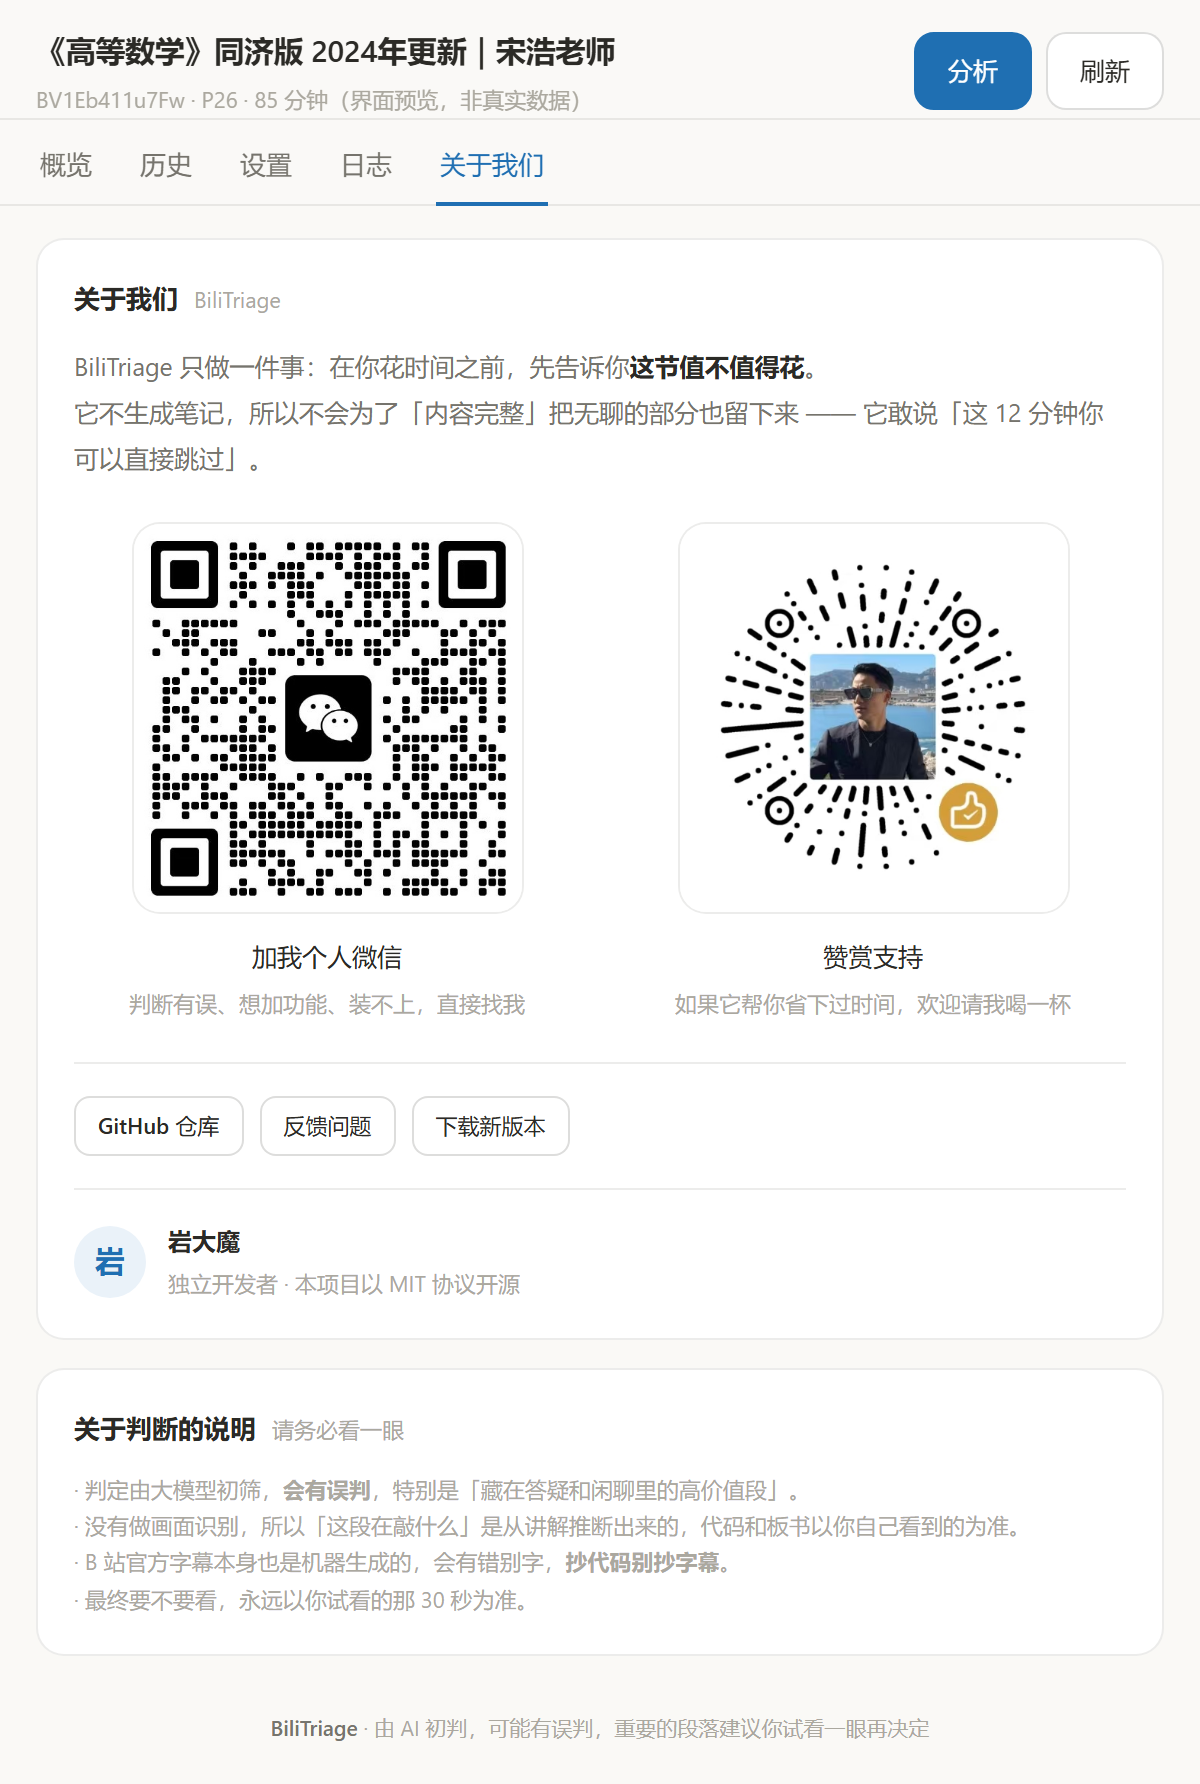
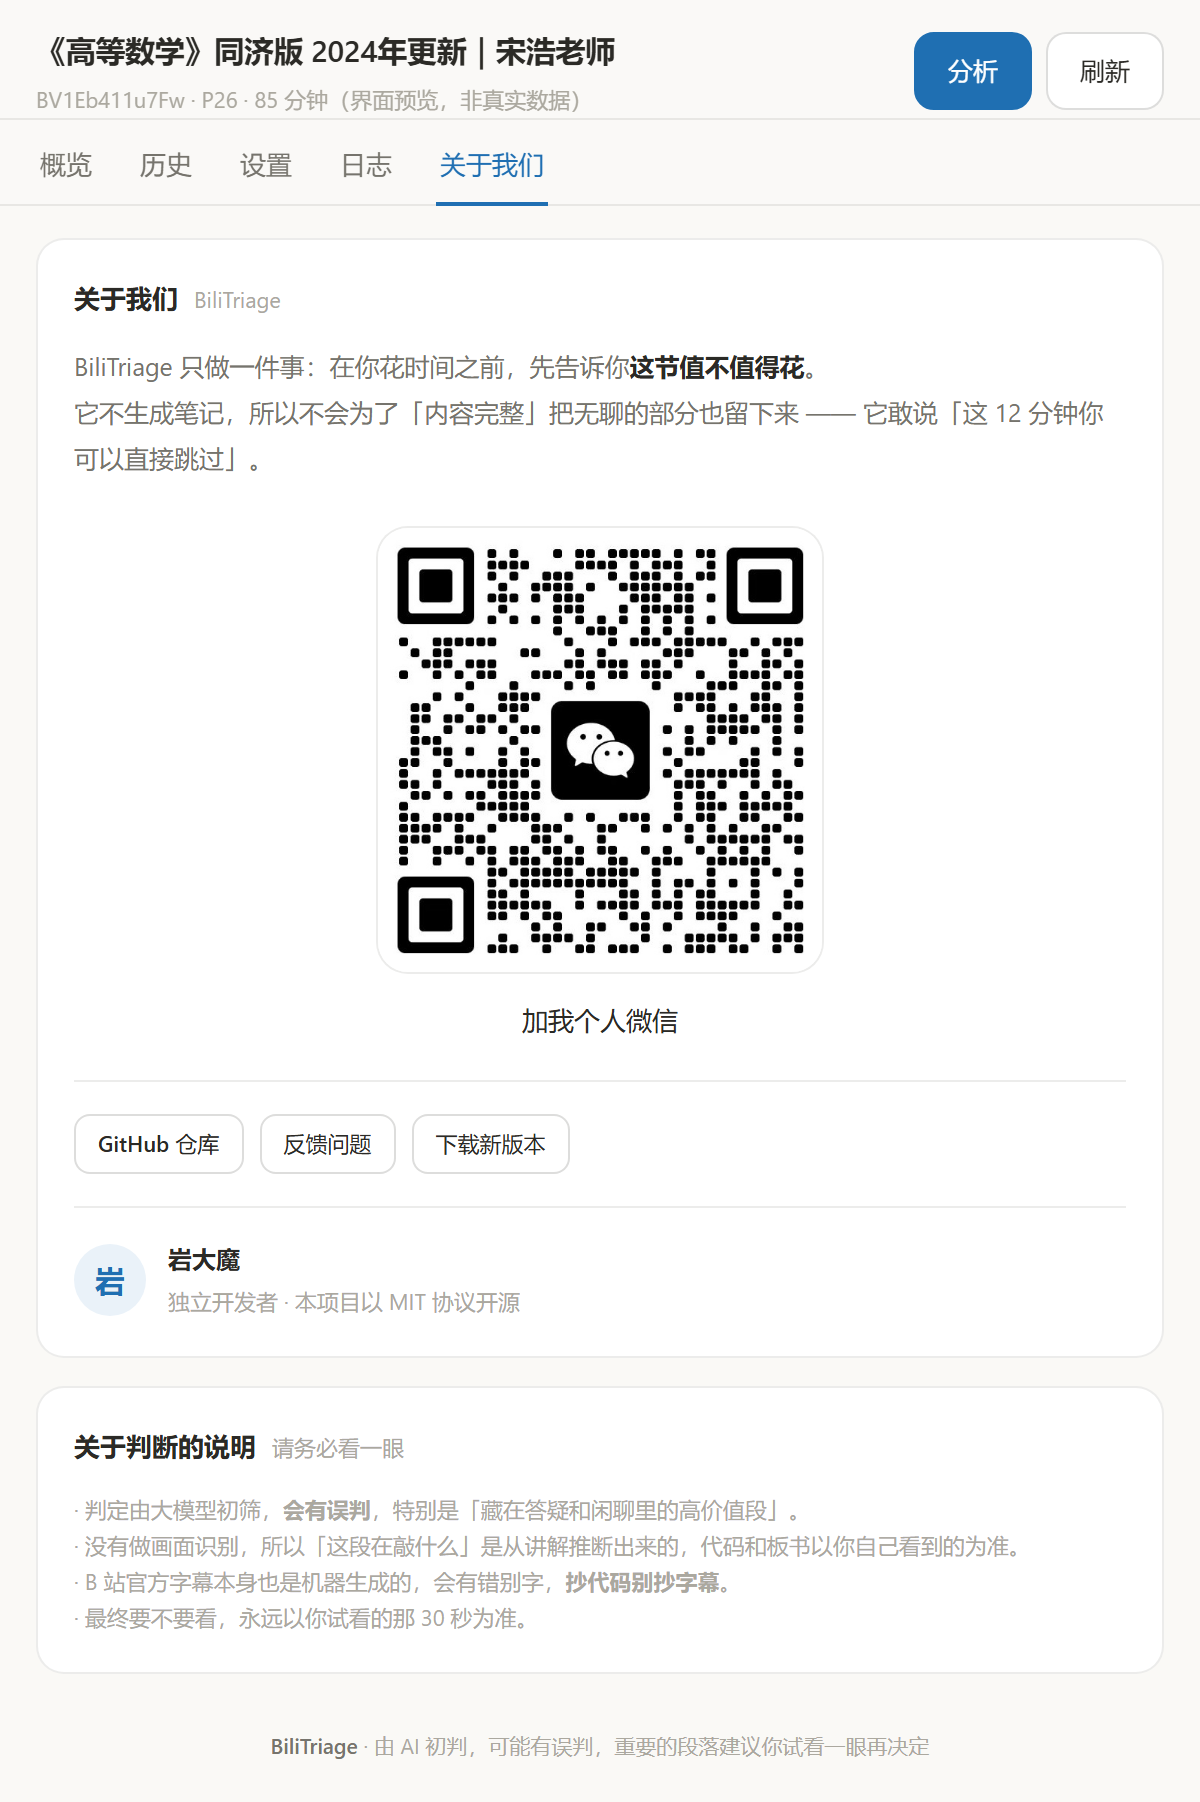
chore(about): 「关于我们」只保留个人微信，移除赞赏码与相关说明文案
- 删去赞赏整块（赞赏码、赞赏支持、请我喝一杯），以及个人微信下方的说明句
- 单个二维码居中显示并放大到 224px，保证扫码成功率
- README 的「联系与赞赏」改为「联系」，同步去掉赞赏码，保留原话术

diff --git a/popup.html b/popup.html
@@ -170,11 +170,10 @@ textarea:focus{outline:none;border-color:var(--blue);background:#fff}
 /* ---------- 关于我们 ---------- */
 .lead{font-size:12.5px;color:var(--ink2);line-height:1.85}
 .lead b{color:var(--ink);font-weight:600}
-.qrs{display:grid;grid-template-columns:1fr 1fr;gap:20px;margin-top:20px}
+.qrs{display:flex;justify-content:center;margin-top:22px}
 .qr{text-align:center}
-.qr img{width:100%;max-width:196px;aspect-ratio:1;object-fit:cover;border-radius:14px;border:1px solid var(--line);background:#fff;display:block;margin:0 auto}
-.qr .ql{font-size:12.5px;font-weight:500;margin-top:11px}
-.qr .qh{font-size:11px;color:var(--ink3);margin-top:4px;line-height:1.65}
+.qr img{width:100%;max-width:224px;aspect-ratio:1;object-fit:cover;border-radius:16px;border:1px solid var(--line);background:#fff;display:block;margin:0 auto}
+.qr .ql{font-size:13px;font-weight:500;margin-top:12px}
 .links{display:flex;gap:8px;margin-top:20px;padding-top:16px;border-top:1px solid var(--line);flex-wrap:wrap;align-items:center}
 .sig{display:flex;align-items:center;gap:11px;margin-top:16px;padding-top:16px;border-top:1px solid var(--line)}
 .sig .av{width:36px;height:36px;border-radius:50%;background:var(--blue-l);color:var(--blue);display:flex;align-items:center;justify-content:center;font-size:15px;font-weight:600;flex:0 0 auto}
@@ -301,12 +300,6 @@ textarea:focus{outline:none;border-color:var(--blue);background:#fff}
       <div class="qr">
         <img src="docs/wechat-qr.jpg" alt="个人微信二维码">
         <div class="ql">加我个人微信</div>
-        <div class="qh">判断有误、想加功能、装不上，直接找我</div>
-      </div>
-      <div class="qr">
-        <img src="docs/reward-qr.jpg" alt="赞赏码">
-        <div class="ql">赞赏支持</div>
-        <div class="qh">如果它帮你省下过时间，欢迎请我喝一杯</div>
       </div>
     </div>
 

diff --git a/README.md b/README.md
@@ -147,15 +147,16 @@ popup.js         全部逻辑：取字幕 → 切片 → 提示词 → 提交后
 docs/            界面截图 + 联系方式二维码
 ```
 
-## 联系与赞赏
+## 联系
 
-这个扩展是我自己上网课时做的工具，判断逻辑一直在调。
-如果你发现有什么问题，哪些部分需要优化，随时欢迎联系我。
+这个扩展是我自己上网课时做的工具，判断逻辑一直在调。如果你发现有什么问题、哪些部分需要优化，随时欢迎联系我。
 
-| 个人微信 | 赞赏码 |
-|:---:|:---:|
-| <img src="docs/wechat-qr.jpg" width="230" alt="个人微信二维码"> | <img src="docs/reward-qr.jpg" width="230" alt="赞赏码"> |
+<p align="center">
+  <img src="docs/wechat-qr.jpg" width="240" alt="个人微信二维码">
+</p>
 
+也可以在 [GitHub Issues](https://github.com/viphzz/BiliTriage/issues) 提，我会看。
+扩展里的「**关于我们**」标签页也有这个码，不用回这里找。
 
 ## 更新日志
 
